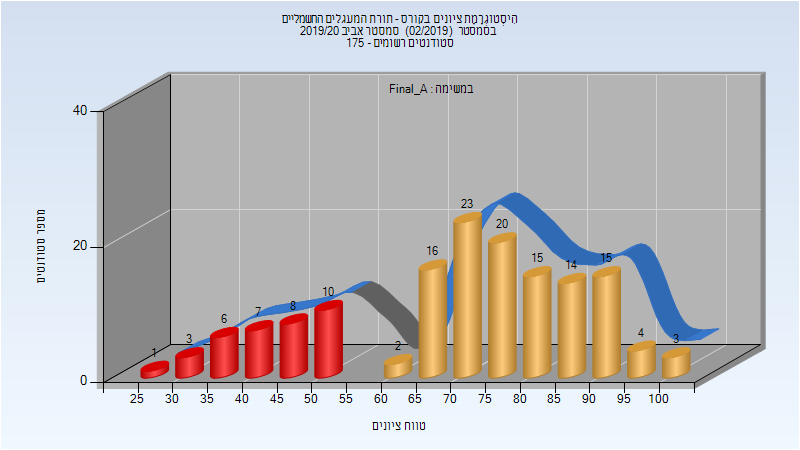
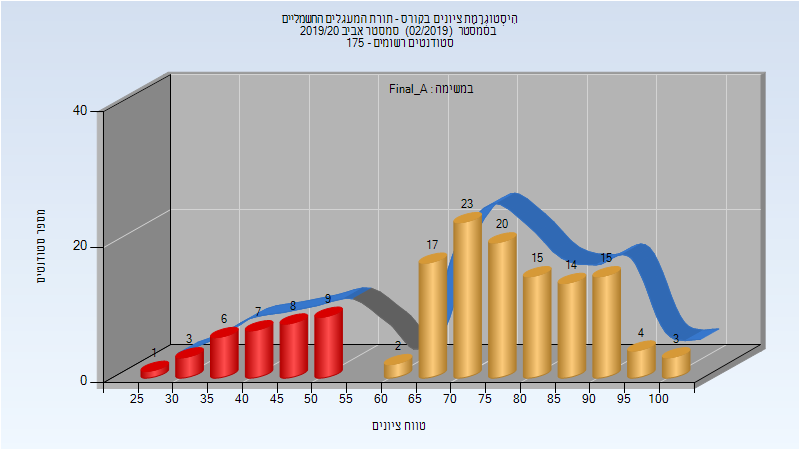
Deploy michael-maltsev/technion-histograms to github.com/michael-maltsev/technion-histograms.git:gh-pages

Changed region(s): [[0.375, 0.6222, 0.5312, 0.7467], [0.5, 0.5289, 0.5625, 0.6222], [0.5938, 0.4356, 0.625, 0.4978]]

diff --git a/044105/index.html b/044105/index.html
@@ -1995,11 +1995,11 @@
 <tbody>
 <tr>
 <td>147</td>
-<td>112/35</td>
-<td>76</td>
+<td>113/34</td>
+<td>77</td>
 <td>29</td>
 <td>100</td>
-<td>66.381</td>
+<td>66.388</td>
 <td>66</td>
 </tr>
 </tbody>
@@ -2021,11 +2021,11 @@
 <tbody>
 <tr>
 <td>147</td>
-<td>112/35</td>
-<td>76</td>
+<td>113/34</td>
+<td>77</td>
 <td>29</td>
 <td>100</td>
-<td>70.932</td>
+<td>71.014</td>
 <td>73</td>
 </tr>
 </tbody>

diff --git a/044105/README.md b/044105/README.md
@@ -621,7 +621,7 @@
 
 | סטודנטים | עברו/נכשלו | אחוז עוברים | ציון מינימלי | ציון מקסימלי | ממוצע | חציון |
 | ---- | ---- | ---- | ---- | ---- | ---- | ---- |
-| 147 | 112/35 | 76 | 29 | 100 | 66.381 | 66 |
+| 147 | 113/34 | 77 | 29 | 100 | 66.388 | 66 |
 
 ### סופי מועד א'
 
@@ -629,5 +629,5 @@
 
 | סטודנטים | עברו/נכשלו | אחוז עוברים | ציון מינימלי | ציון מקסימלי | ממוצע | חציון |
 | ---- | ---- | ---- | ---- | ---- | ---- | ---- |
-| 147 | 112/35 | 76 | 29 | 100 | 70.932 | 73 |
+| 147 | 113/34 | 77 | 29 | 100 | 71.014 | 73 |
 
